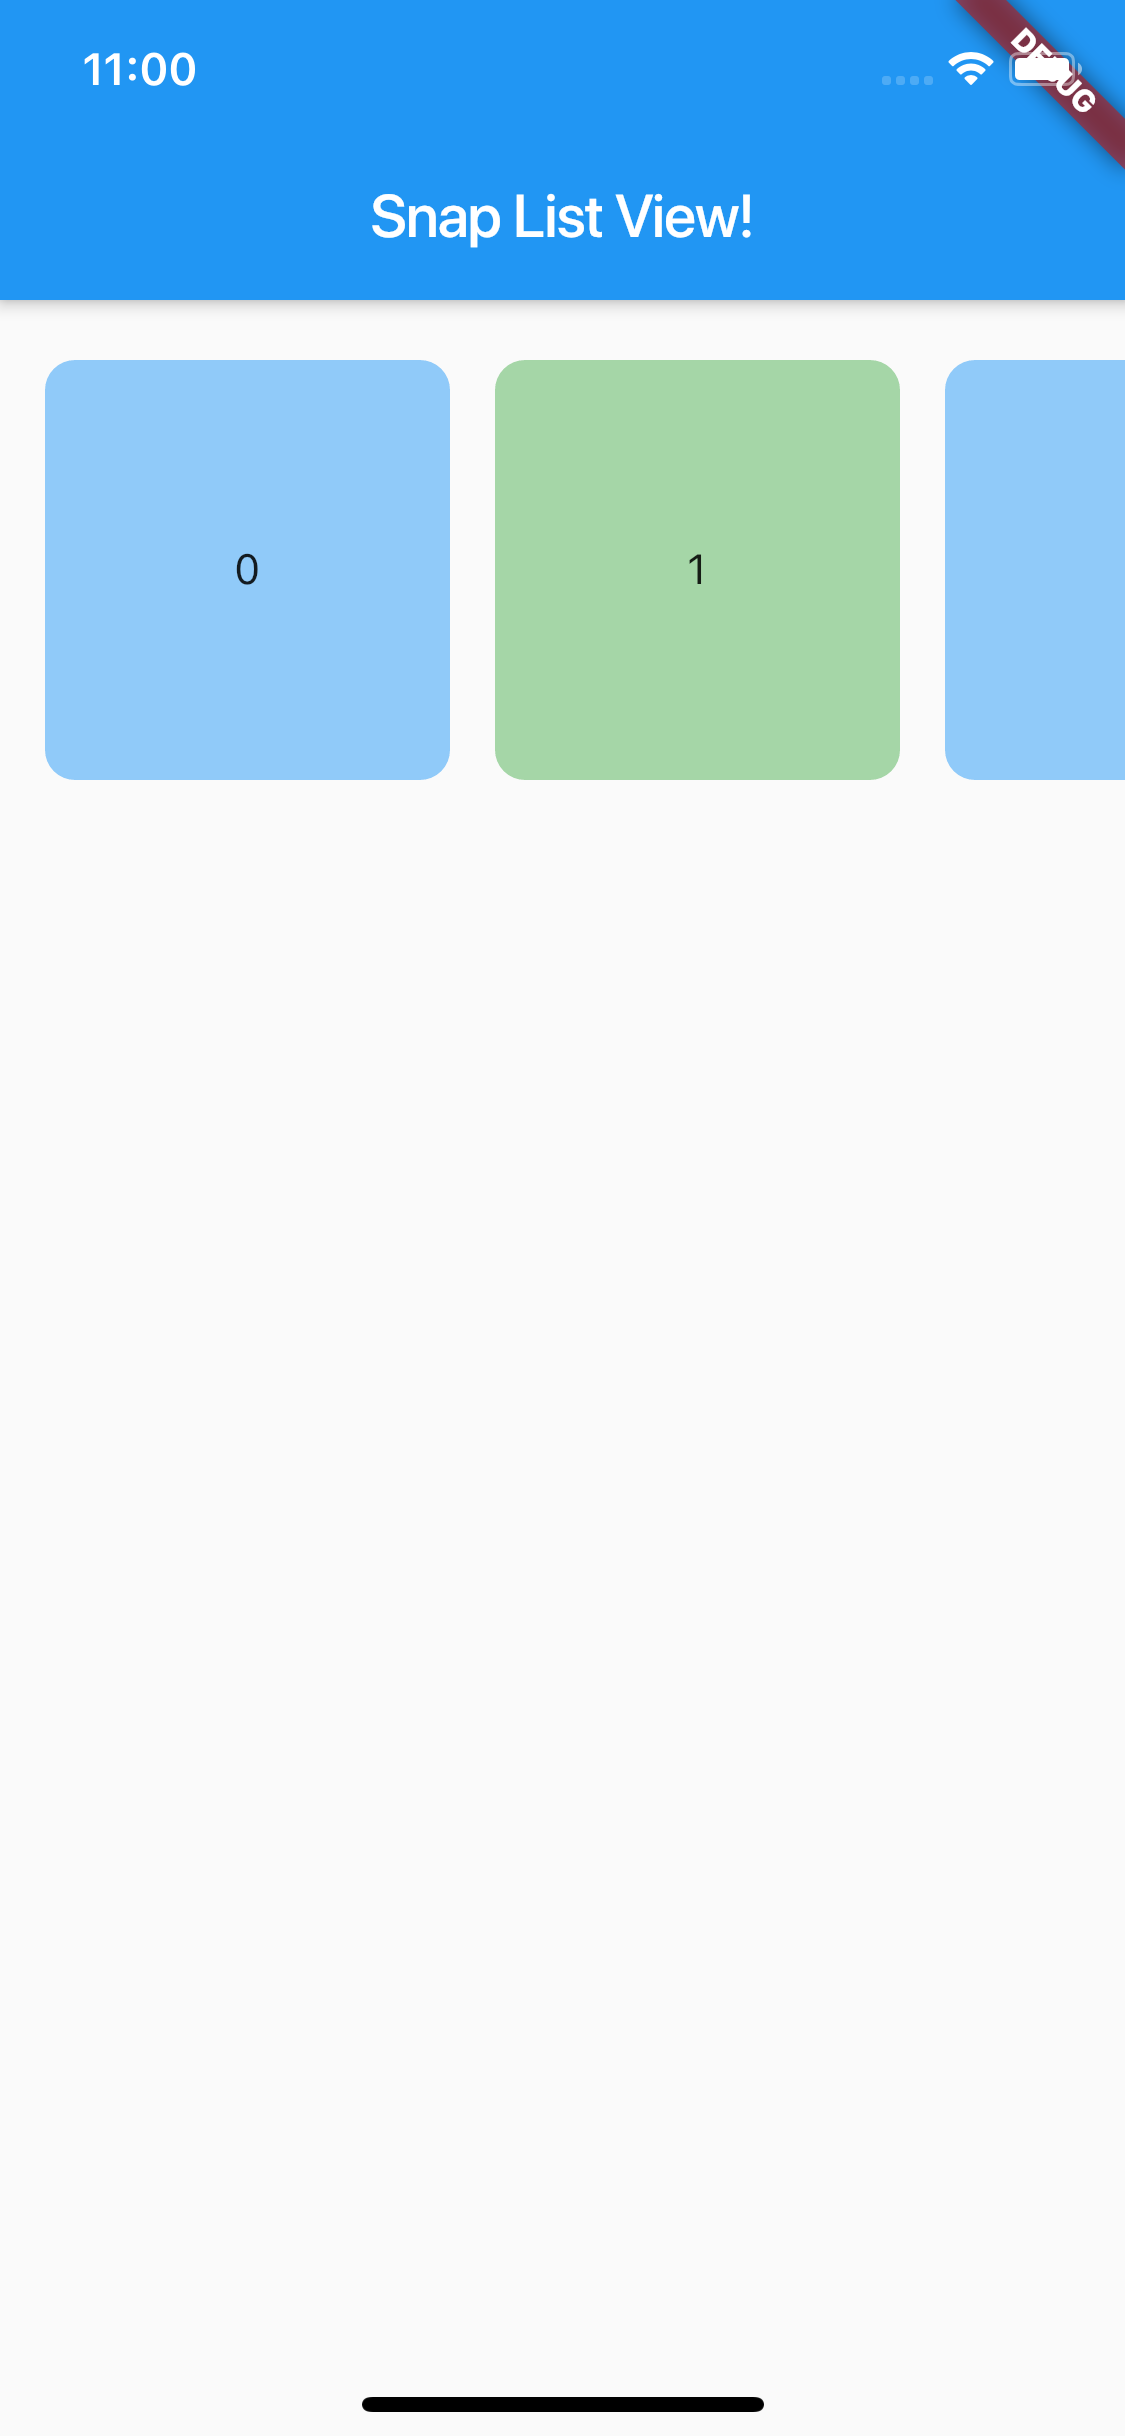
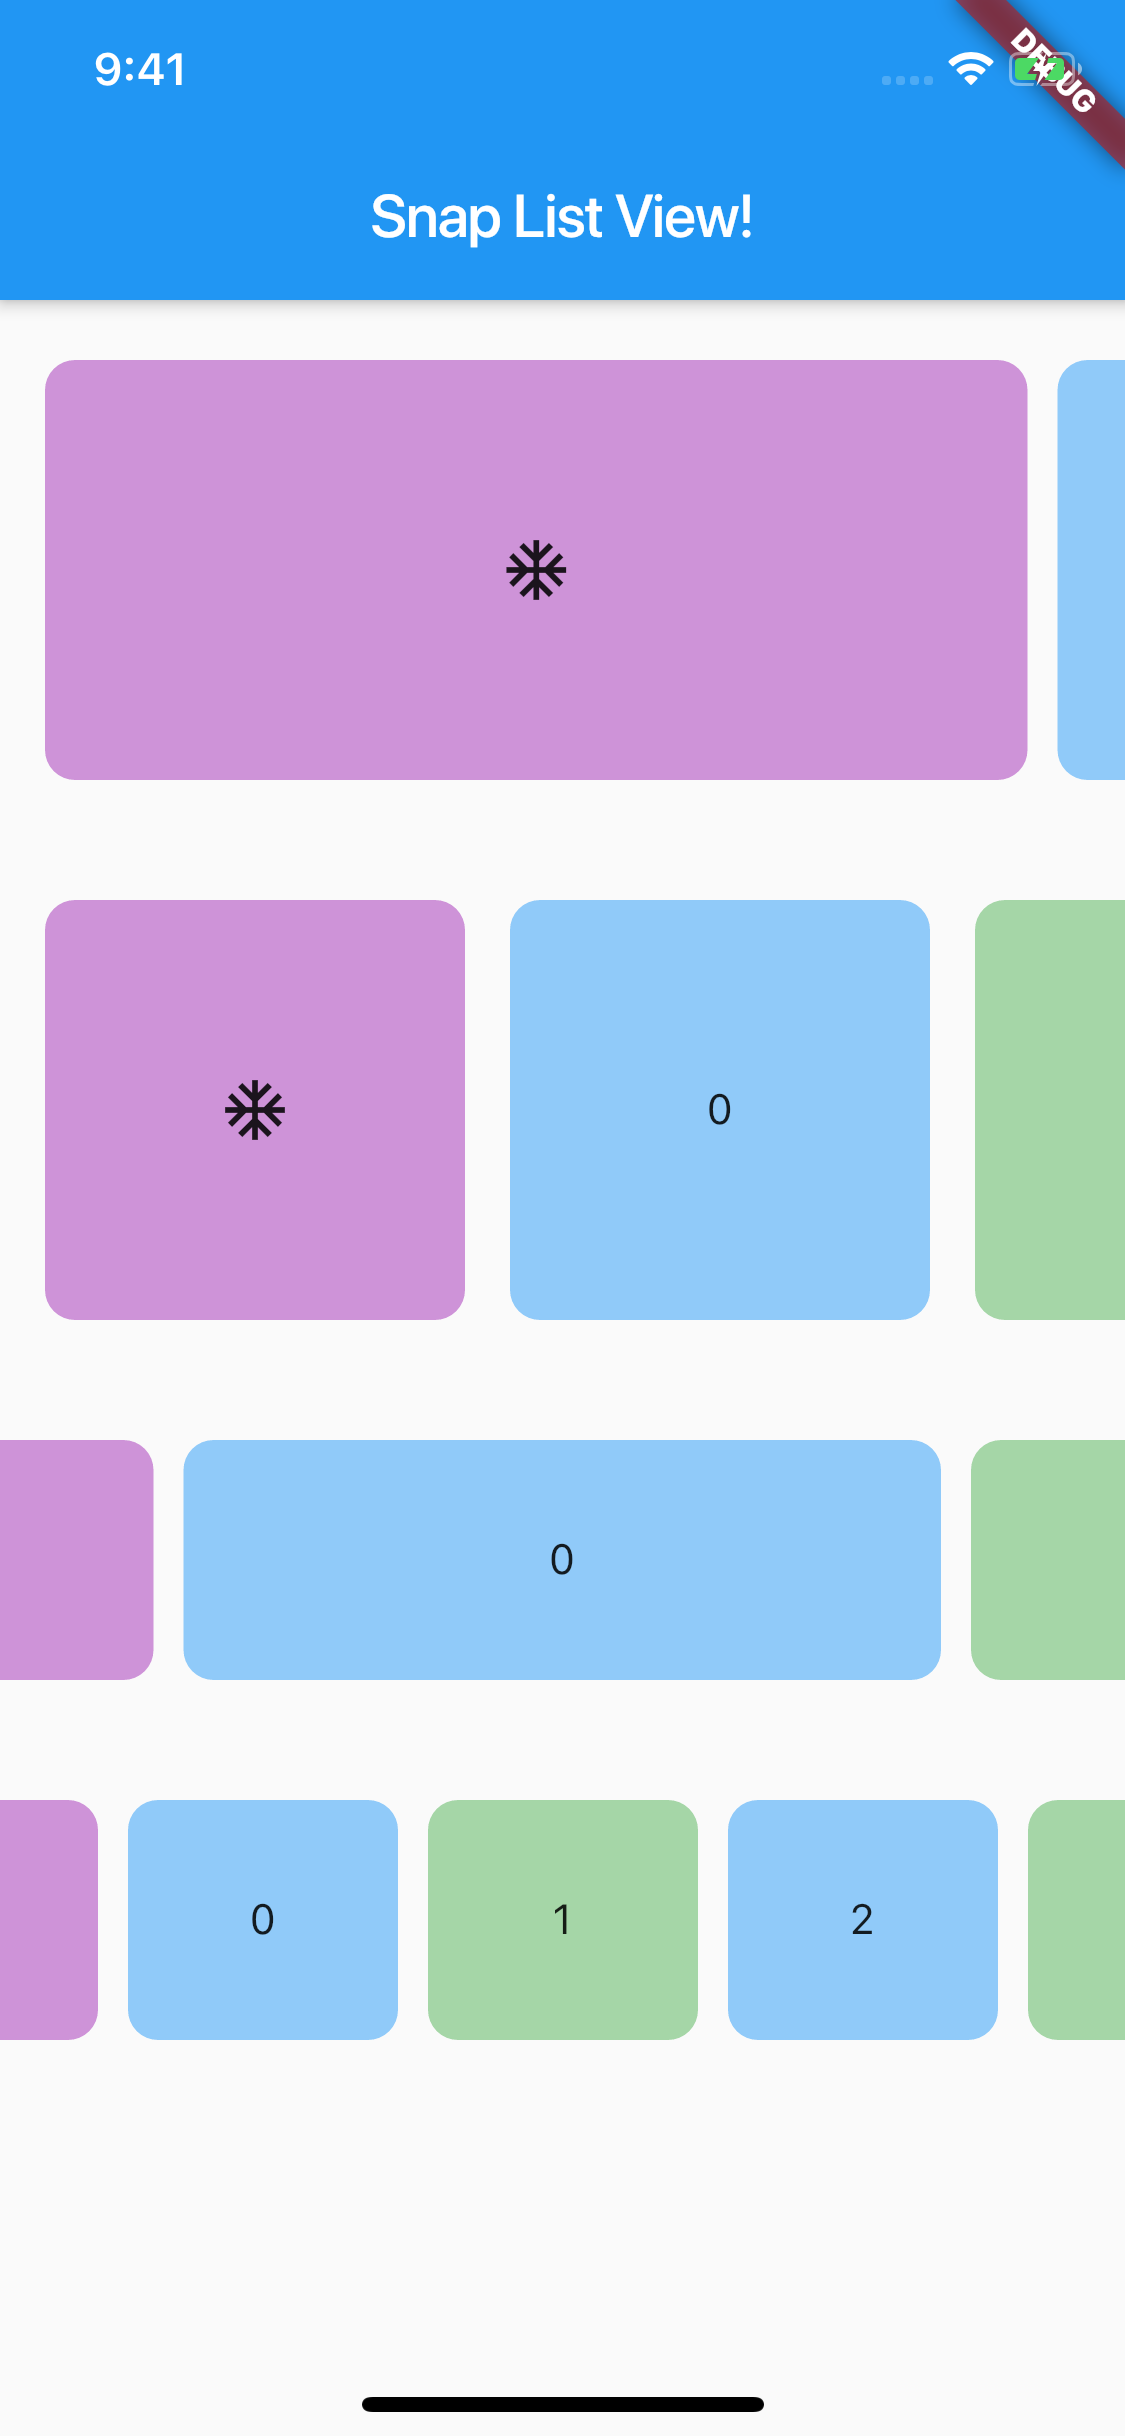
add smart snap listview

diff --git a/lib/main.dart b/lib/main.dart
@@ -1,6 +1,7 @@
 import 'package:flutter/cupertino.dart';
 import 'package:flutter/material.dart';
 import 'package:flutter/rendering.dart';
+import 'package:item_page/smart_snap_list_view.dart';
 import 'package:item_page/snap_list_view.dart';
 
 void main() => runApp(MyApp());
@@ -24,13 +25,16 @@ class ItemList extends StatefulWidget {
 class _ItemListState extends State<ItemList> {
   List<Widget> children = [
     Container(
-      color: Colors.purple[200],
-      padding: EdgeInsets.all(20),
+      // padding: EdgeInsets.all(20),
+      decoration: BoxDecoration(
+        borderRadius: BorderRadius.circular(10),
+        color: Colors.purple[200],
+      ),
       child: Row(
         mainAxisAlignment: MainAxisAlignment.spaceAround,
         children: <Widget>[
           Icon(Icons.ac_unit),
-          Text('Icon'),
+          // Text('Icon'),
         ],
       ),
     ),
@@ -49,17 +53,31 @@ class _ItemListState extends State<ItemList> {
   Widget build(BuildContext context) {
     return Scaffold(
       appBar: AppBar(title: Text('Snap List View!')),
-      body: Column(
+      body: ListView(
         children: <Widget>[
           SnapListView(
             height: 180.0,
-            width: 135.0,
+            width: MediaQuery.of(context).size.width * 0.9 - 10.0,
             children: children,
+            leftItemShowSize: MediaQuery.of(context).size.width * 0.05 - 10,
+            dividerWidth: 10.0,
           ),
           SnapListView(
             height: 180.0,
-            width: 235.0,
+            width: 140.0,
             children: children,
+          ),
+          SmartSnapListView(
+            height: 120.0,
+            count: 1,
+            factor: 0.7,
+            children: children,
+          ),
+          SmartSnapListView(
+            children: children,
+            height: 120.0,
+            count: 3,
+            factor: 0.8,
           ),
         ],
       ),

diff --git a/lib/smart_snap_list_view.dart b/lib/smart_snap_list_view.dart
@@ -1,0 +1,50 @@
+import 'package:flutter/material.dart';
+import 'package:item_page/snap_list_view.dart';
+
+class SmartSnapListView extends StatefulWidget {
+  final height;
+  final count;
+  final dividerWidth;
+  final children;
+  final factor;
+
+  SmartSnapListView({
+    Key key,
+    @required this.children,
+    @required this.height,
+    this.count = 1,
+    this.dividerWidth = 10.0,
+    this.factor = 0.9,
+  }) : super(key: key);
+  @override
+  _SmartSnapListViewState createState() => _SmartSnapListViewState();
+}
+
+class _SmartSnapListViewState extends State<SmartSnapListView> {
+  double height;
+  int count;
+  double dividerWidth;
+  double factor;
+  List<Widget> children;
+  @override
+  void initState() {
+    height = widget.height;
+    count = widget.count ?? 1;
+    dividerWidth = widget.dividerWidth ?? 10.0;
+    children = widget.children;
+    factor = widget.factor ?? 0.9;
+    super.initState();
+  }
+
+  @override
+  Widget build(BuildContext context) {
+    return SnapListView(
+      height: height,
+      width: MediaQuery.of(context).size.width * factor / count - dividerWidth,
+      children: children,
+      leftItemShowSize:
+          MediaQuery.of(context).size.width * (1 - factor) / 2.0 - dividerWidth,
+      dividerWidth: dividerWidth,
+    );
+  }
+}

diff --git a/lib/snap_list_view.dart b/lib/snap_list_view.dart
@@ -103,7 +103,10 @@ class _SnapListViewState extends State<SnapListView> {
       child: Listener(
         onPointerUp: listUpEvent,
         child: NotificationListener(
-          onNotification: (overScroll) => overScroll.disallowGlow(),
+          onNotification: (OverscrollIndicatorNotification overscroll) {
+            overscroll.disallowGlow();
+            return true;
+          },
           child: ListView(
             controller: scrollController,
             scrollDirection: Axis.horizontal,

diff --git a/README.md b/README.md
@@ -1,6 +1,7 @@
-# Snap ListView
+# Snap ListView, Smart Snap ListView
 
 snap 기능을 가진 리스트 뷰
+
 
 ## How to Use
 
@@ -12,6 +13,16 @@ SnapListView(
 ),
 ~~~
 
+~~~dart
+SmartSnapListView(
+    height : [HEIGHT],
+    children : [CHILDREN],
+    count : [화면에 보여질 아이템 개수],
+    factor : [아이템 가로 크기 비율],
+),
+~~~
+
+> 
 
 ## Parameters
 
